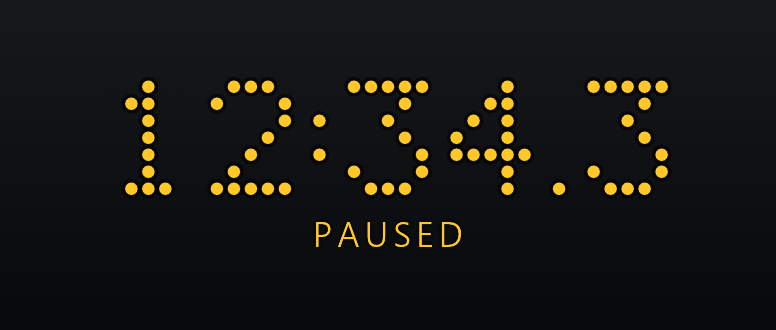
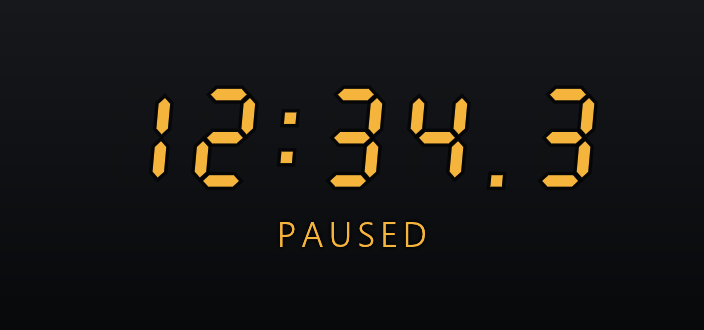
readme: Show every face and colour, not just the LED looks
The README pictured only dot-matrix and seven-segment clocks, so the
plain typeface, most of the colour presets, the backdrop plate and the
smaller looks were nowhere to be seen. The gallery now uses the varied
renders the website was given, adds a grid of all three faces across
the eight colours and a row with the 12-hour, night, chroma key and
small looks, and the text names every preset.

compose-shots.py builds these from the website's renders, so the README
and the site stay in step, and the four images nothing uses any more
are gone.

diff --git a/scripts/compose-shots.py b/scripts/compose-shots.py
@@ -2,22 +2,42 @@
 
     python scripts/compose-shots.py [--wallpaper path/to/image.png]
 
-Reads target/shots/*.png (transparent, 2x) and writes docs/screenshots/:
-one PNG per scene on a dark gradient, ring.gif from the sixty ring frames,
-and hero.png: the board over a wallpaper, if one is given, as it sits on a desktop.
+Reads target/shots/ (transparent, 2x) and writes docs/screenshots/ for the
+README: one PNG per scene on a dark gradient, faces.png with every face in a
+spread of colours, ring.gif from the sixty ring frames, and hero.png: the
+board over a wallpaper, if one is given, as it sits on a desktop.
 Needs Pillow.
 """
 
 import argparse
 from pathlib import Path
 
-from PIL import Image, ImageDraw, ImageFilter
+from PIL import Image, ImageDraw
 
 ROOT = Path(__file__).resolve().parent.parent
 SHOTS = ROOT / "target" / "shots"
 OUT = ROOT / "docs" / "screenshots"
-SCENES = ["board", "board-strip", "clock-ring", "clock-segment", "clock-sans", "timer", "stopwatch"]
+# Output name -> render, chosen so the README shows every face and a spread
+# of colours rather than one look over and over.
+SCENES = {
+    "board": "site/mode-board",
+    "strip": "site/mode-strip",
+    "clock": "site/mode-clock",
+    "timer": "site/mode-timer",
+    "stopwatch": "site/mode-stopwatch",
+    "look-12h": "site/look-12h",
+    "look-night": "site/look-night",
+    "look-chroma": "site/look-chroma",
+    "look-small": "site/look-small",
+}
+# Rows of faces.png: each face in four colours, all eight palettes between them.
+FACES = [
+    ("sans", ["default", "warm", "cool", "yellow"]),
+    ("digital", ["red", "amber", "green", "studio"]),
+    ("matrix", ["green", "red", "amber", "cool"]),
+]
 TOP, BOTTOM = (22, 24, 28), (8, 9, 11)
+CHROMA = (0, 255, 0)
 
 
 def gradient(size):
@@ -30,9 +50,37 @@ def gradient(size):
     return img
 
 
-def on_gradient(shot, margin):
-    canvas = gradient((shot.width + 2 * margin, shot.height + 2 * margin)).convert("RGBA")
+def on_gradient(shot, margin, background=None):
+    size = (shot.width + 2 * margin, shot.height + 2 * margin)
+    canvas = (Image.new("RGB", size, background) if background else gradient(size)).convert("RGBA")
     canvas.alpha_composite(shot, (margin, margin))
+    return canvas.convert("RGB")
+
+
+def faces_grid(margin=48, gap=24):
+    """Every face in four colours each, centred in equal cells. Studio gets
+    its seconds ring, without which it looks just like Green."""
+    rows = []
+    for face, palettes in FACES:
+        row = []
+        for palette in palettes:
+            ring = 1 if palette == "studio" else 0
+            row.append(Image.open(SHOTS / "site" / f"skin-{face}-{palette}-r{ring}-b0.png").convert("RGBA"))
+        rows.append(row)
+    cell_w = max(img.width for row in rows for img in row)
+    cell_h = max(img.height for row in rows for img in row)
+    cols = max(len(row) for row in rows)
+    width = 2 * margin + cols * cell_w + (cols - 1) * gap
+    height = 2 * margin + len(rows) * cell_h + (len(rows) - 1) * gap
+    canvas = gradient((width, height)).convert("RGBA")
+    for r, row in enumerate(rows):
+        for c, img in enumerate(row):
+            x = margin + c * (cell_w + gap) + (cell_w - img.width) // 2
+            y = margin + r * (cell_h + gap) + (cell_h - img.height) // 2
+            canvas.alpha_composite(img, (x, y))
+    # Half size: the README shows it about 860 px wide, so this stays sharp
+    # on a high-density screen without a 3000 px file.
+    canvas = canvas.resize((width // 2, height // 2), Image.LANCZOS)
     return canvas.convert("RGB")
 
 
@@ -55,10 +103,16 @@ def main():
     args = parser.parse_args()
     OUT.mkdir(parents=True, exist_ok=True)
 
-    for name in SCENES:
-        shot = Image.open(SHOTS / f"{name}.png").convert("RGBA")
-        on_gradient(shot, 48).save(OUT / f"{name}.png", optimize=True)
+    for name, source in SCENES.items():
+        shot = Image.open(SHOTS / f"{source}.png").convert("RGBA")
+        # The renderer leaves the chroma key's green to the window's clear
+        # colour, which an off-screen render does not have.
+        background = CHROMA if name == "look-chroma" else None
+        on_gradient(shot, 48, background).save(OUT / f"{name}.png", optimize=True)
         print(OUT / f"{name}.png")
+
+    faces_grid().save(OUT / "faces.png", optimize=True)
+    print(OUT / "faces.png")
 
     frames = [Image.open(SHOTS / f"ring-{s:02}.png").convert("RGBA") for s in range(60)]
     if frames:

diff --git a/README.md b/README.md
@@ -7,16 +7,28 @@ stock exchanges are open right now.
 Website: <https://superhelten.github.io/chronodesk/>
 
 <p align="center">
-  <img src="docs/screenshots/board.png" width="420" alt="Market board: New York, London and Frankfurt trading, Hong Kong and Tokyo closed, in a green dot-matrix face">
-  <img src="docs/screenshots/ring.gif" width="420" alt="Clock with the studio seconds ring filling up LED by LED">
+  <img src="docs/screenshots/ring.gif" width="420" alt="Clock in green dot-matrix with the studio seconds ring filling up LED by LED in red">
+  <img src="docs/screenshots/board.png" width="420" alt="Market board in a cool blue typeface: New York, London and Frankfurt trading, Hong Kong and Tokyo closed">
 </p>
 <p align="center">
-  <img src="docs/screenshots/board-strip.png" width="860" alt="The board as a one-line strip with exchange codes">
+  <img src="docs/screenshots/strip.png" width="860" alt="The board as a one-line strip with exchange codes, in green seven-segment digits">
 </p>
 <p align="center">
-  <img src="docs/screenshots/timer.png" width="270" alt="Countdown timer in red seven-segment with the seconds ring">
-  <img src="docs/screenshots/clock-segment.png" width="270" alt="Clock in red seven-segment with the date">
-  <img src="docs/screenshots/stopwatch.png" width="270" alt="Stopwatch in a yellow dot-matrix face">
+  <img src="docs/screenshots/clock.png" width="270" alt="Clock in a warm typeface on its dark backdrop plate">
+  <img src="docs/screenshots/timer.png" width="270" alt="Pomodoro timer in red dot-matrix with the seconds ring: focus period 1 of 4, paused">
+  <img src="docs/screenshots/stopwatch.png" width="270" alt="Stopwatch in amber seven-segment digits, paused">
+</p>
+
+Three faces in eight colours, with or without the seconds ring and the backdrop:
+
+<p align="center">
+  <img src="docs/screenshots/faces.png" width="860" alt="The clock in the plain typeface, seven-segment and dot-matrix faces, each in four of the eight colour presets">
+</p>
+<p align="center">
+  <img src="docs/screenshots/look-12h.png" width="205" alt="12-hour clock with AM before the date, in amber dot-matrix">
+  <img src="docs/screenshots/look-night.png" width="205" alt="Night mode: the clock dimmed to 70 percent">
+  <img src="docs/screenshots/look-chroma.png" width="205" alt="Chroma key: white seven-segment digits on pure green for streaming software">
+  <img src="docs/screenshots/look-small.png" width="205" alt="The small size, in a red typeface">
 </p>
 
 - **Market board:** local time and trading status for nine exchanges from New York to Sydney,
@@ -24,8 +36,10 @@ Website: <https://superhelten.github.io/chronodesk/>
   account.
 - **Clock and timers:** a second time zone after the date, a one-shot alarm, and a Pomodoro cycle
   on the timer.
-- **Hardware looks:** dot-matrix or seven-segment LED faces with ghosted unlit segments, a studio
-  seconds ring with sixty LEDs, and industrial colour presets (green, red, yellow, studio green/red).
+- **Hardware looks:** three faces (dot-matrix and seven-segment LEDs with ghosted unlit segments,
+  or a plain typeface), eight colour presets (default, warm, cool, amber, and the LED green, red,
+  yellow and studio green/red), a studio seconds ring with sixty LEDs and an optional dark backdrop
+  plate. Try every combination on the [website](https://superhelten.github.io/chronodesk/#skins).
 - **Stays out of the way:** click-through lock with hotkeys that still reach it, night dimming, chroma-key background for streaming,
   a stopwatch or timer that survives a reboot, and a chime when the timer runs out.
 - **Light:** one ~5.8 MB exe with no assets, ~50 MB RAM, one frame per second when idle. No admin
@@ -197,8 +211,8 @@ The key never goes to GitHub or CI. `-Init` creates it and prints the public hal
 
 ### Screenshots
 
-The images in `docs/screenshots` are rendered by the app itself with the clock pinned to a fixed
-time, so they can be regenerated after a visual change:
+The images in `docs/screenshots` and on the website are rendered by the app itself, off screen,
+with the clock pinned to a fixed time, so they can be regenerated after a visual change:
 
 ```sh
 cargo test shots -- --ignored        # renders to target/shots
